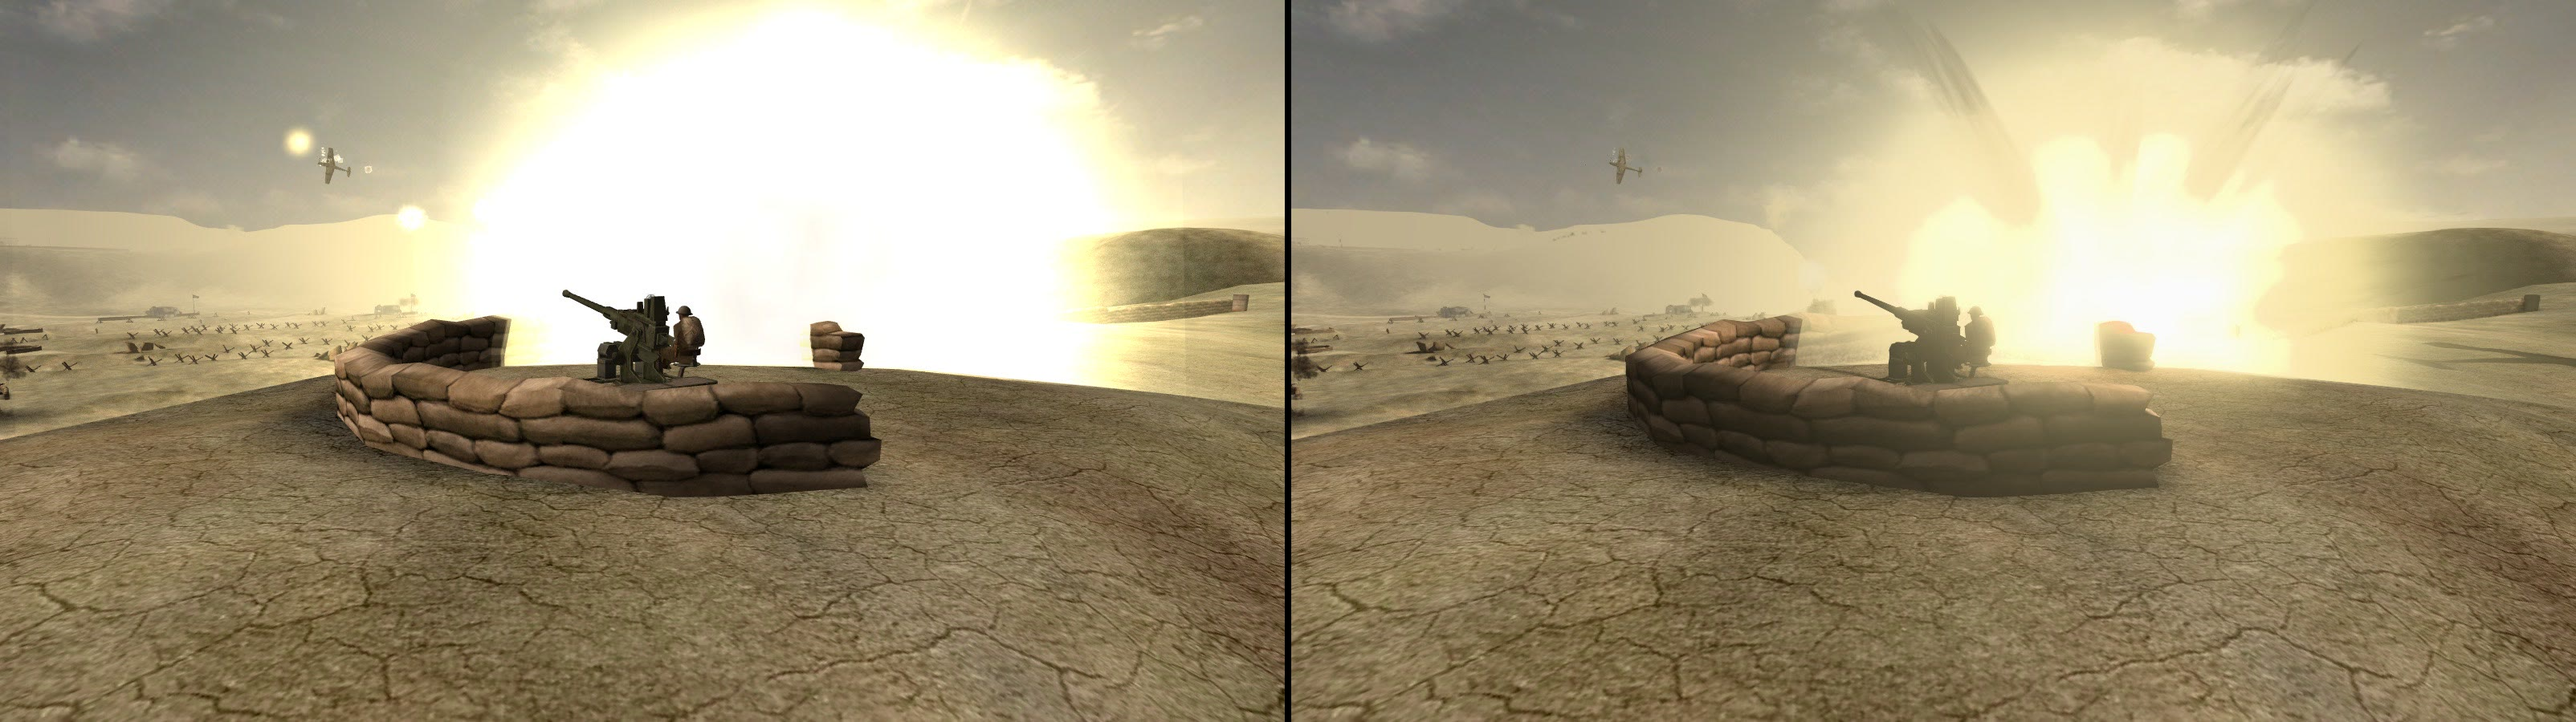
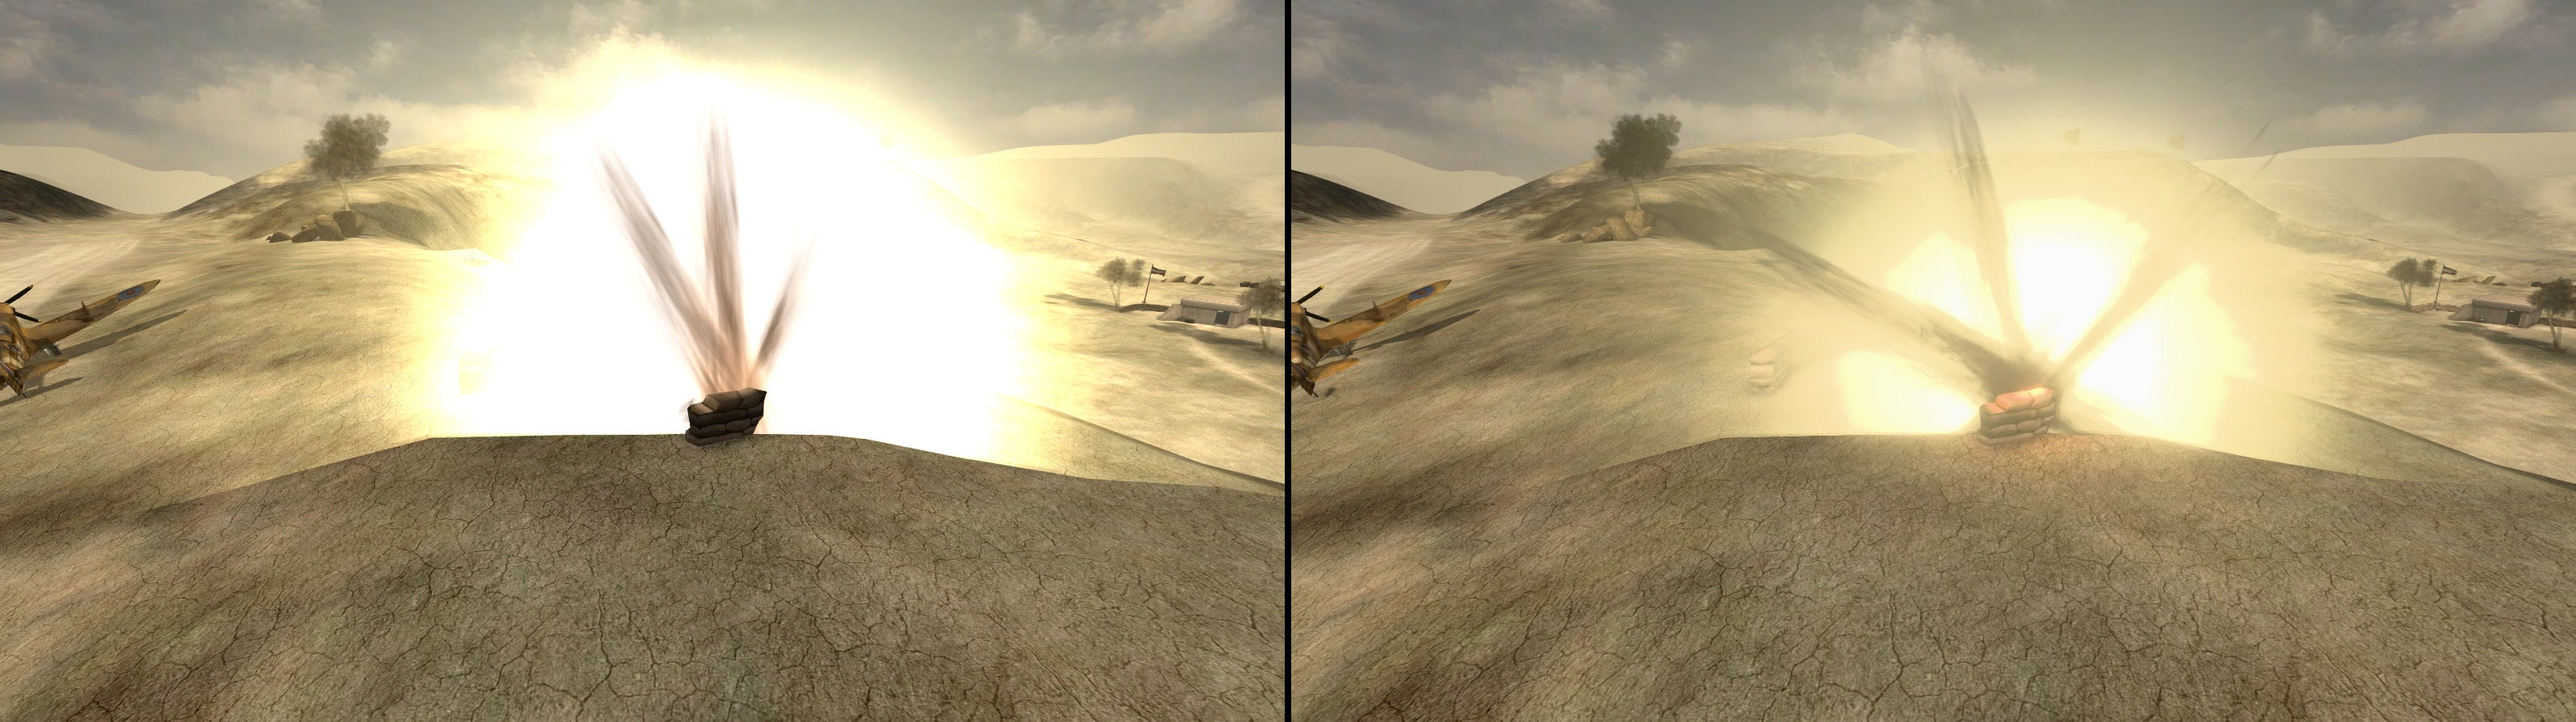
fix(remaster): shaded vehicles and soldiers keep the sky's fill, a heavy MG's burst a small core; staged MG crossfire for the captures
A face turned from the sun or in a cast shadow kept only the engine's floor,
so a halftrack seen against the sun was a dark brown shape; it now keeps
SHADE_FILL 0.35 of the sun, and ambient occlusion is mixed at 0.55. Heavy
and coaxial MGs drew the AA gun's 1.3 m muzzle disc, a white ball near the
eye; they draw a 0.45 m core. An additive sprite's fade is read in its
opacity node only.

remaster-compare.mjs stages a fight on a level (bots seated on a side's
guns, aimed across the gap and fired in bursts through their own aim and
trigger); the marketing set is retaken with the sun behind the camera and
Battleaxe's MG nests in crossfire.

diff --git a/tools/bf1942-models/viewer/remaster-materials.js b/tools/bf1942-models/viewer/remaster-materials.js
@@ -163,6 +163,18 @@ export const FOLIAGE_THROUGH = 0.6;
  * where the palm's baked shadow beside it already is.
  */
 export const LIGHTMAP_SHADE = 0.12;
+/**
+ * The share of the sun a vehicle's or a soldier's face keeps when it is
+ * turned from the sun or in a cast shadow: the open sky's fill. The engine's
+ * combine leaves such a face at its floor (0.8 of its texture against up to
+ * 1.8 lit); the retail page aims its light at the mirror of the level's
+ * painted sun ("The sun's side"), so the side a camera looking into the
+ * remaster's sun sees is lit there and at the floor here. A tank seen
+ * against the sun read as a dark brown shape (owner, 2026-11-14: "darker and
+ * worse"). With this fill the shaded side keeps 0.64 of the lit side's
+ * light, and a cast shadow on a hull still reads.
+ */
+export const SHADE_FILL = 0.35;
 
 // OPTIONS > VIDEO's ENVIRONMENT MAPPING (ledger VID-3), read each frame.
 const viewEnvOn = uniform(1).onRenderUpdate(() => (ENVMAP_SWITCH.value ? 1 : 0));
@@ -236,9 +248,11 @@ class EngineLightingModel extends THREE.LightingModel {
     let display;
     if (this.kind === 'lit' || this.kind === 'frond' || this.kind === 'cockpit') {
       // D3D clamps the vertex diffuse to [0, 1] before the stage's
-      // modulate-2x, and saturates again after the multiply.
+      // modulate-2x, and saturates again after the multiply. A vehicle's
+      // or a soldier's shaded side keeps the sky's fill (`SHADE_FILL`).
+      const kLit = this.kind === 'lit' ? max(k, vec3(SHADE_FILL)) : k;
       const lit = min(vec3(1), materialReference('bfEngineFloor', 'vec3')
-        .add(materialReference('bfEngineSun', 'vec3').mul(k))).mul(2);
+        .add(materialReference('bfEngineSun', 'vec3').mul(kLit))).mul(2);
       display = min(vec3(1), tex.mul(lit));
       if (this.env) display = envStage(display, matTexture('map').ref.a);
     } else if (this.kind === 'lightmap') {

diff --git a/tools/bf1942-models/viewer/remaster-renderer.js b/tools/bf1942-models/viewer/remaster-renderer.js
@@ -241,10 +241,15 @@ export async function createRemasterScene({ renderer, scene, camera, sun, hemi }
       // at 1 the fog tinted the whole quad, its empty corners included, and
       // the blend added that tint to the sky: a flak burst 300 m out drew as
       // a pale rectangle (2026-11-14, Battleaxe's AA guns in a replay).
-      const coverage = c.a.mul(tsl.materialOpacity).clamp(0, 1);
-      const display = tsl.sRGBTransferOETF(c.rgb).mul(coverage).clamp(0, 1);
-      m.colorNode = tsl.vec4(tsl.sRGBTransferEOTF(display).mul(gain).div(coverage.max(1 / 255)), 1);
-      m.opacityNode = coverage;
+      // The texture's coverage shapes the light in display space, as the
+      // engine's blend did; the material's fade is applied by the opacity
+      // node alone (a material's opacity read in a colour node is not
+      // always its own: "A material's opacity read inside a colour node",
+      // below).
+      const a = c.a.clamp(1 / 255, 1);
+      const display = tsl.sRGBTransferOETF(c.rgb).mul(a).clamp(0, 1);
+      m.colorNode = tsl.vec4(tsl.sRGBTransferEOTF(display).mul(gain).div(a), 1);
+      m.opacityNode = c.a.mul(tsl.materialOpacity).clamp(0, 1);
     } else {
       m.colorNode = tsl.vec4(c.rgb.mul(gain), c.a);
     }
@@ -881,7 +886,10 @@ export async function createRemasterScene({ renderer, scene, camera, sun, hemi }
       aoPass.scale.value = 1.1;
       aoPass.thickness.value = 1.5;
       const occlusion = open.select(float(1), aoPass.getTextureNode().r);
-      out = out.mul(mix(float(1), occlusion, 0.85));
+      // At 0.85 the contact darkening took the detail out of a soldier's or
+      // a hull's shaded side along with the shadow (owner, 2026-11-14);
+      // 0.55 keeps the grounding under a wheel and a sandbag.
+      out = out.mul(mix(float(1), occlusion, 0.55));
     }
     if (tune.bloom) {
       post.bloom = bloomMod.bloom(color, 0.3, 0.35, 2.4);

diff --git a/tools/bf1942-models/viewer/remaster-lights.js b/tools/bf1942-models/viewer/remaster-lights.js
@@ -23,8 +23,14 @@ export const FLASH_KINDS = [
   { test: /bomb|granadeexpl|groundexpl|waterexpl|expl(armor|bazooka|boatarmor|gas|ani)|torpedo/i, intensity: 150, range: 60, life: 0.45, color: 0xffb070 },
   // A tank's main gun, a self-propelled gun's, a coastal or a ship's gun.
   { test: /muzz(panz|sexton|priest|defgun)/i, intensity: 90, range: 30, life: 0.13, color: 0xffc080, burst: 2.8 },
-  // An anti-aircraft gun, a heavy machine gun, a bomber's turret.
-  { test: /muzz(aagun|heavy|b17)/i, intensity: 16, range: 14, life: 0.07, color: 0xffc890, burst: 1.3 },
+  // An anti-aircraft gun.
+  { test: /muzzaagun/i, intensity: 16, range: 14, life: 0.07, color: 0xffc890, burst: 1.3 },
+  // A heavy machine gun (`e_MuzzHeavy`: a nest's MG42 or Browning, a
+  // fighter's wing guns; `e_MuzzB17`: a tank's coaxial and pintle MGs): the
+  // AA gun's light, a small hot core. At the AA gun's 1.3 m disc, ten rounds a
+  // second ten metres off bloomed into a white ball the size of the sun
+  // (2026-11-14, filming Battleaxe's nests).
+  { test: /muzz(heavy|b17)/i, intensity: 16, range: 14, life: 0.07, color: 0xffc890, burst: 0.45 },
   { test: /muzz/i, intensity: 1.2, range: 8, life: 0.05, color: 0xffc890 },
 ];
 

diff --git a/tools/bf1942-models/viewer/test-hooks-bots.js b/tools/bf1942-models/viewer/test-hooks-bots.js
@@ -45,6 +45,20 @@ export function installBotHooks(page) {
     bot._respawnForce = true;
     return true;
   };
+  // Stand a bot on foot at (x, z) on the ground, facing `yaw`, the way the
+  // referee stands one out of a vehicle (`leaveVehicle`): for a check or a
+  // capture that stages a fight where it can be seen
+  // (scripts/remaster-compare.mjs `gunners.field`).
+  window.__botPlace = (id, x, z, yaw = 0) => {
+    const bot = page.referee.bots.find(b => b.playerId === id);
+    const soldier = page.world?.player(id)?.soldier;
+    if (!bot || !soldier || bot.vehicle || page.world?.armorOf(id)?.destroyed) return false;
+    const y = page.groundHeight(x, z);
+    if (!Number.isFinite(y)) return false;
+    soldier.spawn(x, y + 0.05, z, yaw);
+    bot.setPosition(soldier.x, soldier.y, soldier.z);
+    return true;
+  };
   window.__botDismount = id => { const bot = page.referee.bots.find(b => b.playerId === id); if (bot?.vehicle) page.referee.leaveVehicle(bot); return !bot?.vehicle; };
   // The bots' bodies on the page: each live bot's drawn family and seat, and
   // every corpse still down (`bot-visuals.js`), so a headless check can tell a

diff --git a/tools/bf1942-models/tests/test_remaster_lights.py b/tools/bf1942-models/tests/test_remaster_lights.py
@@ -48,6 +48,10 @@ class RemasterLightsTests(unittest.TestCase):
         self.assertEqual(0, flash["e_MuzzM1"]["burst"])
         self.assertGreater(flash["e_MuzzAAGun"]["burst"], 0)
         self.assertGreater(flash["e_MuzzPanz"]["burst"], flash["e_MuzzAAGun"]["burst"])
+        # A heavy MG fires ten a second, often near the eye: a small core,
+        # never the AA gun's disc (a white ball over the frame, 2026-11-14).
+        self.assertGreater(flash["e_MuzzHeavy"]["burst"], 0)
+        self.assertLess(flash["e_MuzzHeavy"]["burst"], flash["e_MuzzAAGun"]["burst"] / 2)
         for name in ("e_ExplGas", "e_Bomb"):
             self.assertEqual(0, flash[name]["burst"], name)
 

diff --git a/features/remaster-browser/README.md b/features/remaster-browser/README.md
@@ -64,6 +64,9 @@ wins", below).
 | The sun's glint on the water held under a beam | done (2026-11-14) |
 | Far flak bursts drew as pale rectangles | fixed (2026-11-14) |
 | Matched before/after stills and a side-by-side reel for marketing | done (2026-11-14) |
+| A shaded vehicle or soldier keeps the sky's fill; ambient occlusion eased | done (2026-11-14) |
+| A heavy MG's muzzle burst a small core, not the AA gun's disc | fixed (2026-11-14) |
+| A staged MG crossfire on Battleaxe for the tracers | done (2026-11-14) |
 
 ## How to turn it on
 
@@ -755,6 +758,30 @@ rectangle. The glow now carries light over coverage with the coverage in the
 alpha the blend multiplies by, so the frame gets the same light and the fog's
 tint is weighted as retail's is (`remaster-renderer.js` `glow`).
 
+**Darker and worse** (owner, on the first set of captures: "only the water
+shot on Wake actually looks better. Everything else looks darker and
+worse"). Measured, the frames were not darker overall (mean grey 134 to 106
+on the halftrack, the same on the rifleman, brighter on the Flak 38): the
+subjects were. Two causes. Every shot looked into the sun, and the retail
+page lights its vehicles from the mirror of the level's painted sun ("The
+sun's side"), so the face the camera saw was lit there and in shade here,
+where the engine's combine leaves it at its floor (0.8 of its texture
+against up to 1.8 lit): a halftrack against the sun was a dark brown shape.
+And the contact darkening, at 0.85, took the detail out of the shaded side
+with it. A vehicle's or a soldier's face turned from the sun or in a cast
+shadow now keeps `SHADE_FILL` 0.35 of the sun (the sky's fill: the shaded
+side at 0.64 of the lit one, a cast shadow on a hull still reads;
+`remaster-materials.js`), and the occlusion is mixed at 0.55. Wake's
+harness views were checked against retail after it: nothing washed out.
+The captures were then reframed with the sun behind the camera, which is
+where the remaster's light reads as light.
+
+**A white ball over the frame.** Ten metres from a nest's MG42 the
+remaster drew a sun-sized white disc every few frames: the hot burst at the
+muzzle, which every heavy machine gun (`e_MuzzHeavy`, and a tank's coaxial
+`e_MuzzB17`) took at the AA gun's 1.3 m. Those now draw a 0.45 m core with
+the same light (`remaster-lights.js` `FLASH_KINDS`).
+
 ## Marketing captures (2026-11-14)
 
 `scripts/remaster-compare.mjs` draws the same replayed moments twice, the
@@ -771,18 +798,31 @@ curl -s -o tools/bf1942-models/viewer/replays/ymdy248edr.ndjson \
 node scripts/remaster-compare.mjs --out ~/.cache/bfstats-remaster-compare
 ```
 
-The 2026-11-14 set, from the Battleaxe recording `ymdy248edr` and Wake, is in
-`marketing/` (a still per mode per shot and the pair side by side): the
-halftrack's MG42 at the Spitfires, a rifleman's StG44, the Flak 38 and the
-Allied AA gun with the blast that whites out the retail frame, and Wake's
-lagoon down into the sun. The 34 s reel is not committed (36 MB); the
-command above makes it again. `--probe=<from>,<to>` lists every effect,
-round and burst drawn in those frames, which is how the flak rectangle was
-named.
+A level shot can stage a fight (`gunners`): the bots seated on a side's
+guns (`__botMount`), kept there, and with `bursts` aimed at a gunner across
+the gap and fired in bursts through their own aim and trigger
+(`bot-aim.js` `turretAimAt`, the input word the world fires the seat's gun
+from). Left to their own plans the gunners found a target now and then and
+the free bots took the tanks; the tracers need a steady crossfire to be
+seen. `field` stands the bots on foot back in no man's land
+(`__botPlace`, a test hook). Battleaxe's four Browning nests (z -842 to
+-897) and four MG42 nests (z -1000 to -1050) face each other 110-160 m
+apart: the wide shot looks along the gap from the east with the sun behind
+it, the close one sits beside an MG42 nest. The bots' choices are each
+page's own dice, so the halves show the same fight, not the same rounds.
+
+The set, from that crossfire, the Battleaxe recording `ymdy248edr` and
+Wake, is in `marketing/` (a still per mode per shot and the pair side by
+side; the sun is behind the camera in every Battleaxe shot). The 58 s reel
+(3208 x 900, 150 MB) is not committed; the command above makes it again.
+`--probe=<from>,<to>` lists every effect, round and burst drawn in those
+frames, which is how the flak rectangle and the MG's white ball were named.
+
+![MG crossfire before and after](marketing/battleaxe_crossfire_wide_side_by_side.jpg)
 
 ![Flak before and after](marketing/battleaxe_allied_aa_side_by_side.jpg)
 
-![MG42 before and after](marketing/battleaxe_mg42_side_by_side.jpg)
+![The halftrack's MG42, the sun behind the camera](marketing/battleaxe_mg42_side_by_side.jpg)
 
 
 ## Bugs found on the way
